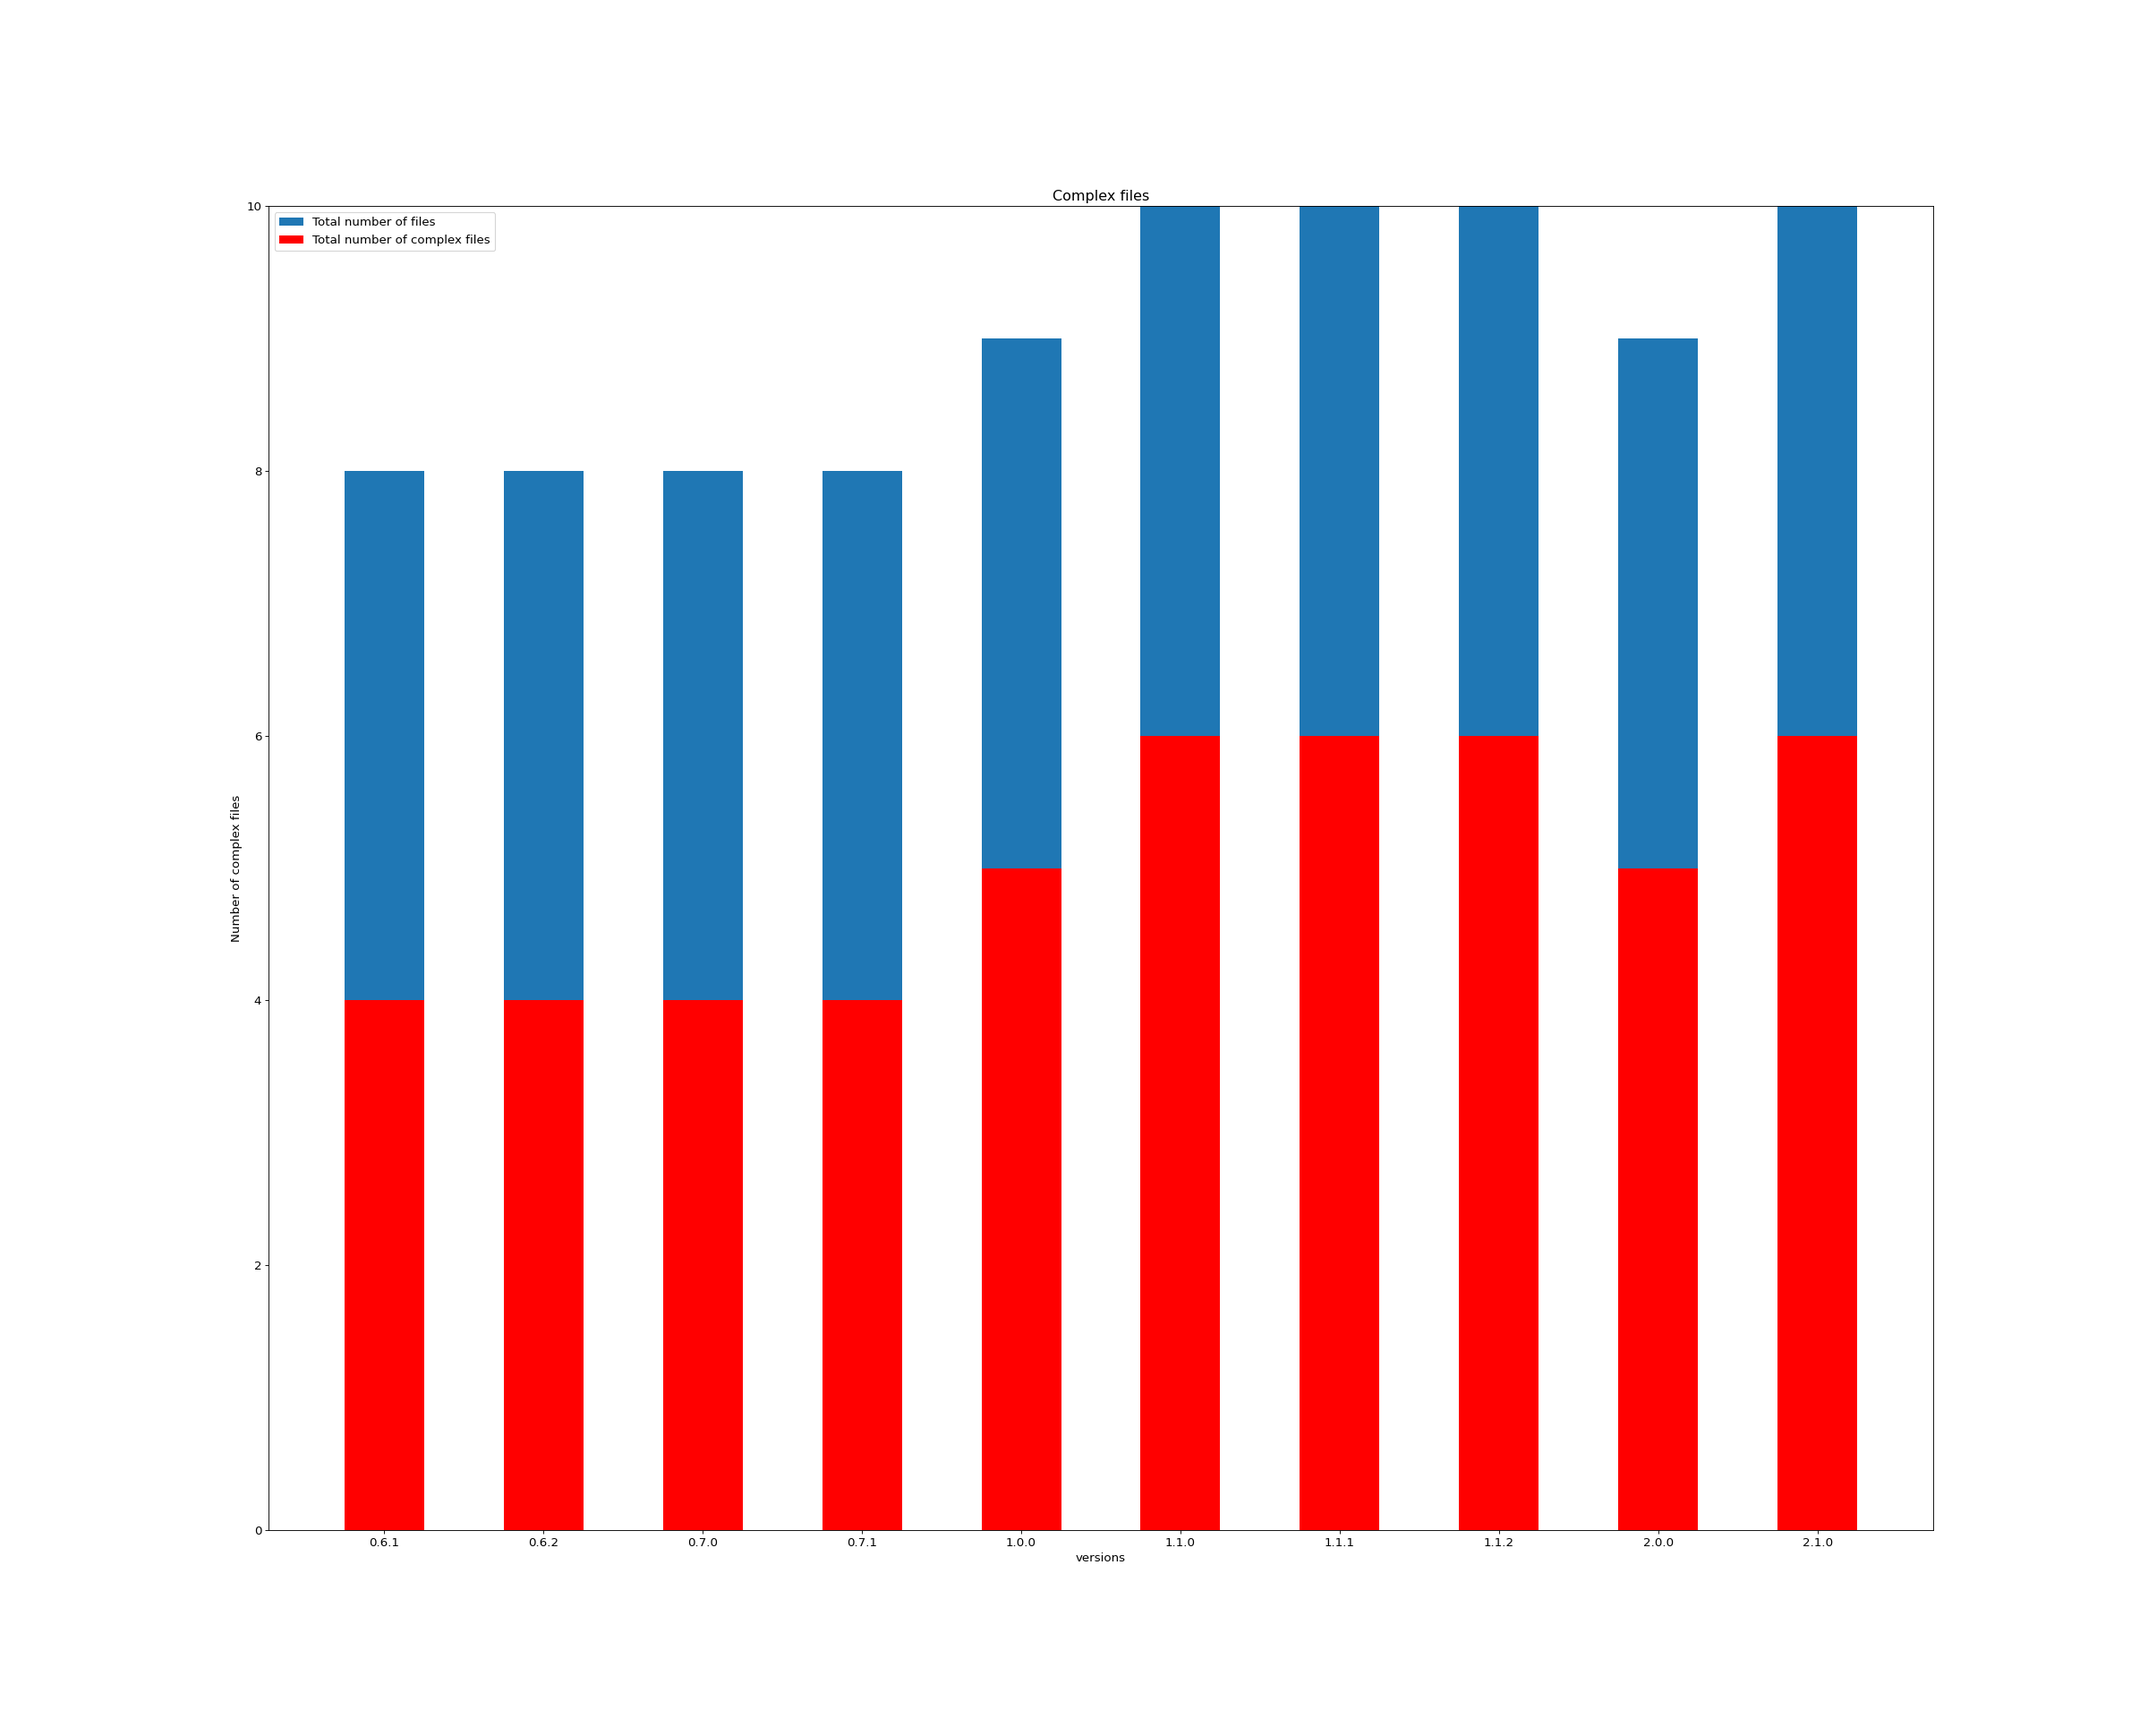
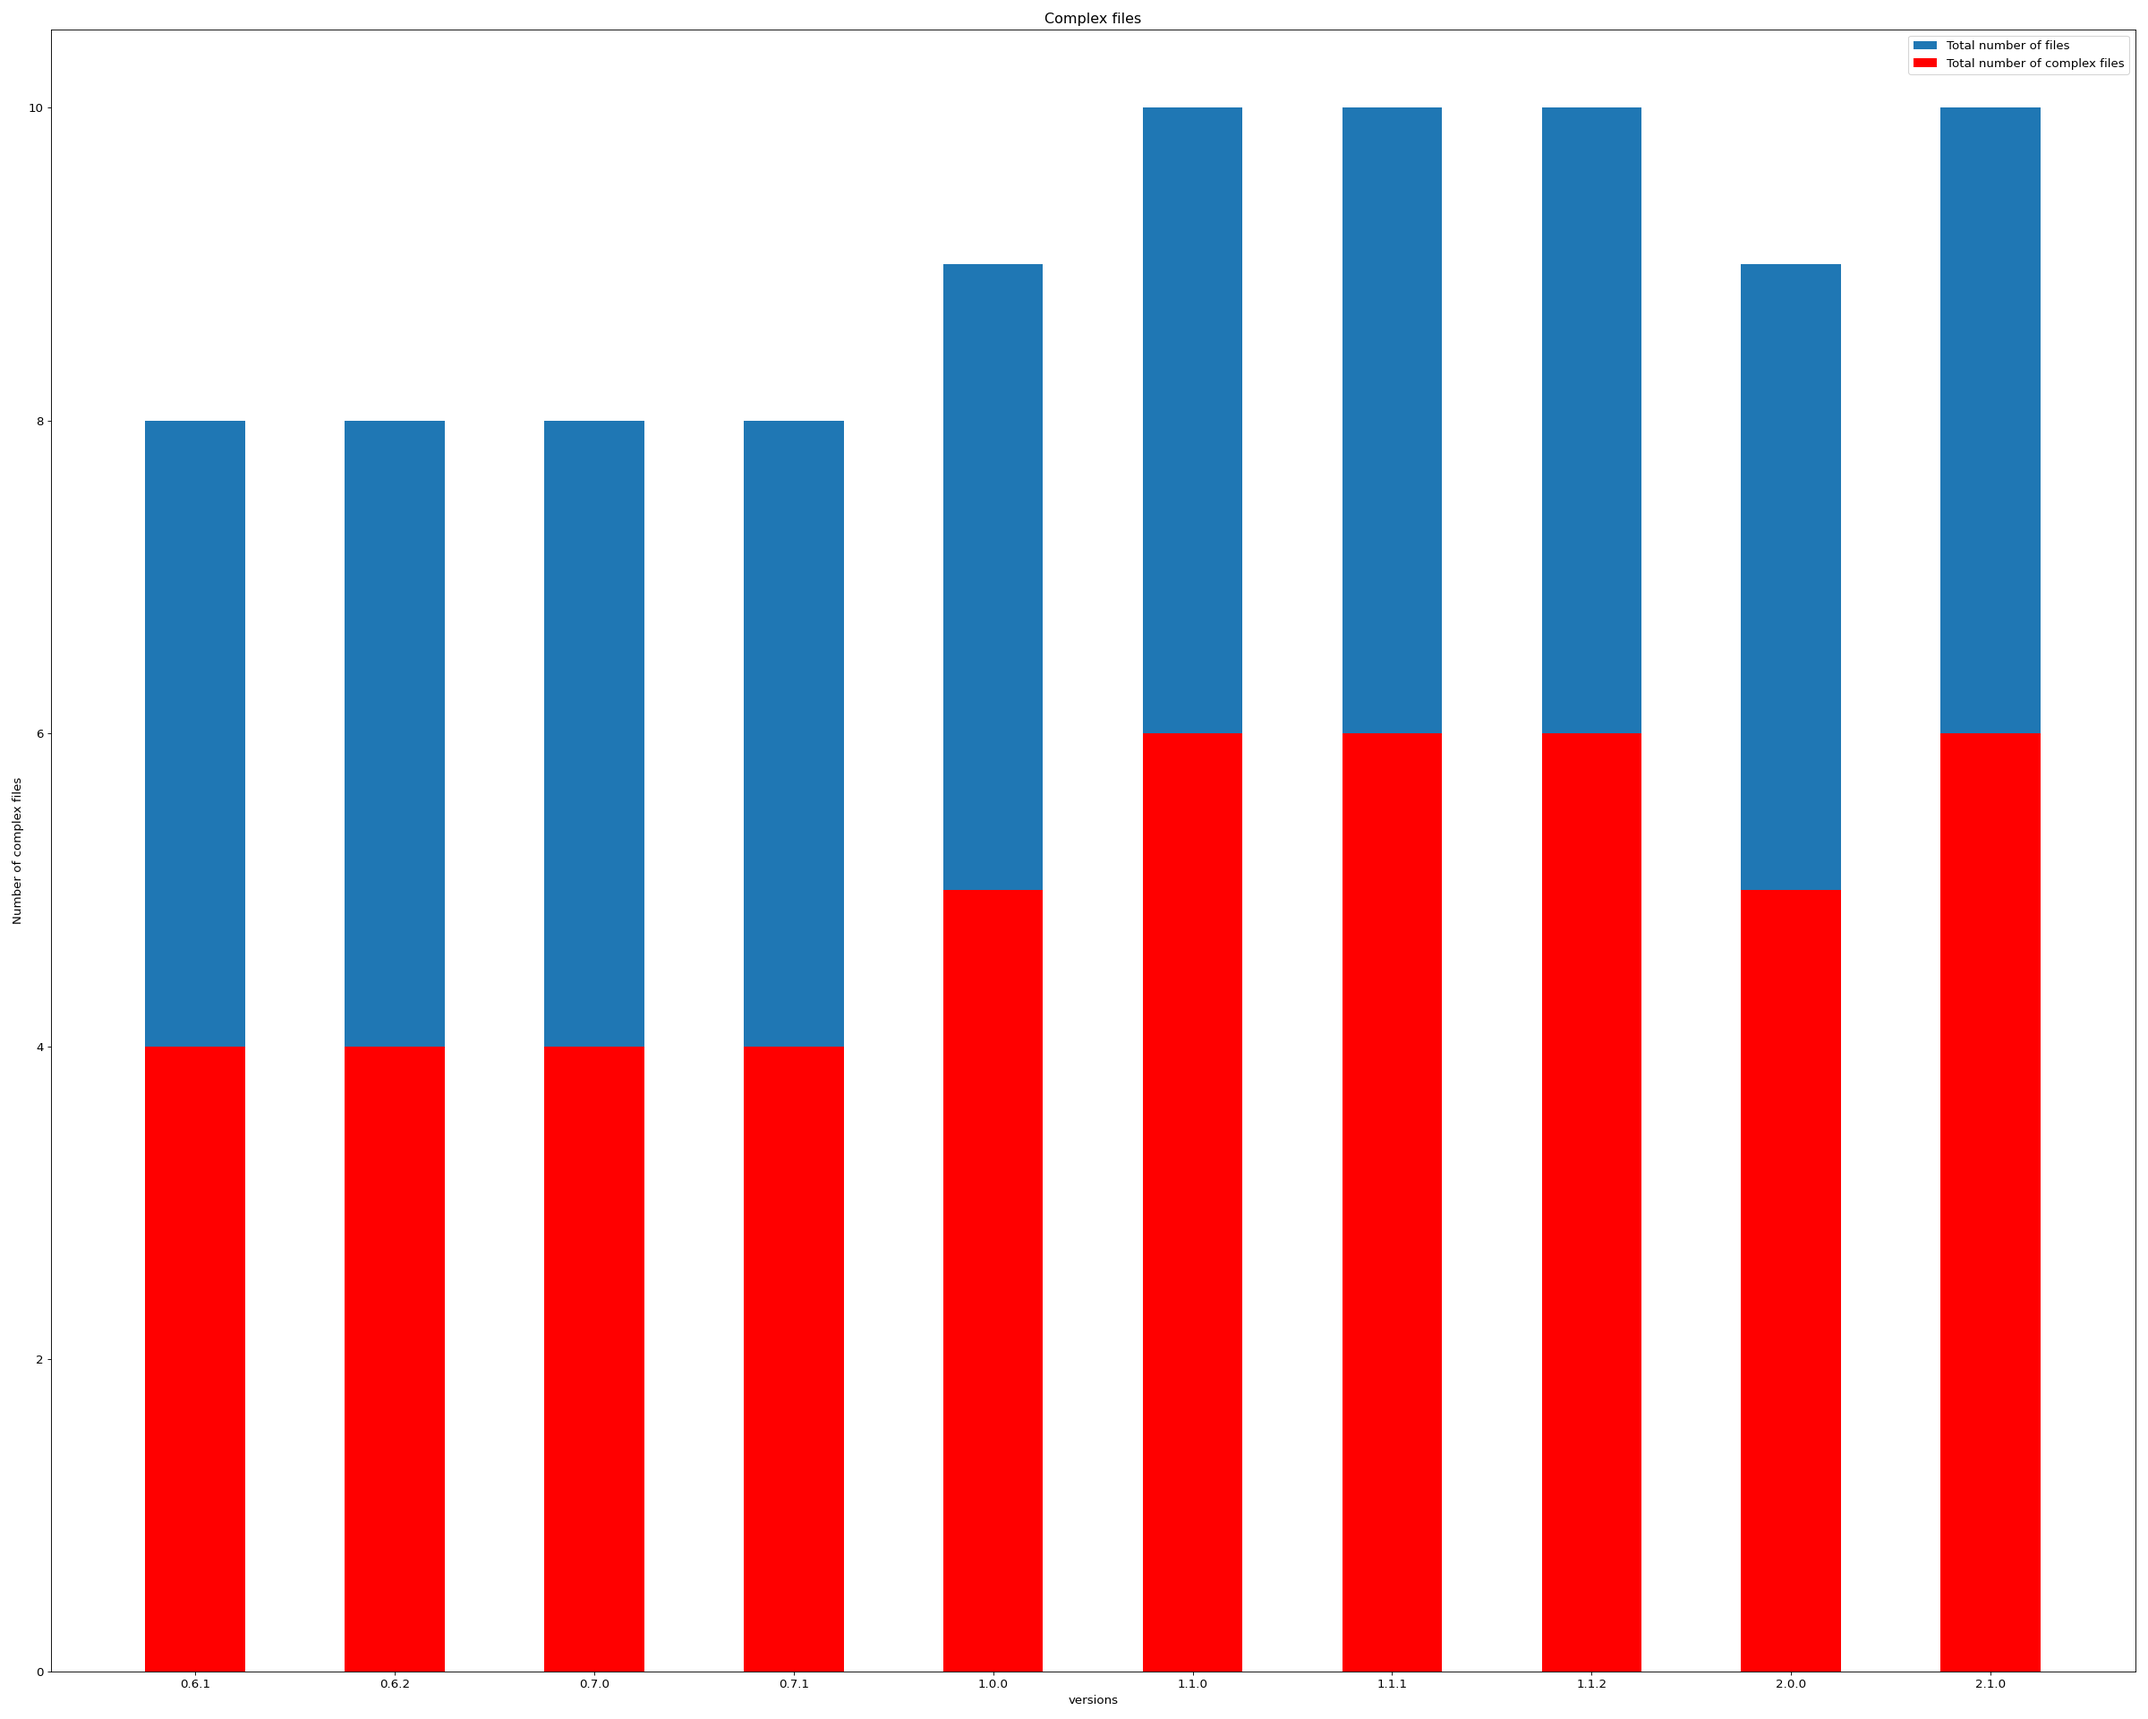
fineshed graph for file mod analysis

diff --git a/static-analysis.py b/static-analysis.py
@@ -5,6 +5,14 @@ import numpy as np
 import matplotlib.pyplot as plt
 from matplotlib.pyplot import figure
 
+def get_ticks(Y_axis):
+    vec=[y for ys in Y_axis for y in ys]
+    ymin= min(vec)
+    ymax= max(vec)
+    step = round((ymax-ymin)/20.0,2)
+    ticks=np.arange(ymin,ymax,step=step)
+    
+    return np.append(ticks,ymax)
 
 #avg_cyc[, avg_cogn, max_cyc, max_cogn,min_cyc, min_cogn
 def print_bar_plot(x,vec,img_path,title): 
@@ -22,13 +30,13 @@ def print_bar_plot(x,vec,img_path,title):
         for value in y:
             min_y=min(min_y,value)
             max_y=max(max_y,value)
-    min_y = min_y-0.05*min_y
     plt.rcParams.update({'font.size': 12})
     figure(figsize=(25,20), dpi=80)
     for i in range(0,len(x)):
         plt.bar(V_axis[i], Y_axis[i], 0.2, label = x[i])
     plt.xticks(rotation='vertical')
-    plt.ylim(min_y,max_y)
+    plt.yticks(get_ticks(Y_axis))
+    plt.ylim(min_y)
     plt.xlabel("projects")
     plt.ylabel("Complexity")
     plt.title(title)
@@ -87,8 +95,8 @@ def static_analysis(path_to_csvs,image_name):
         sifis_q.append( [avg_cyc[i][1], avg_cogn[i][1], max_cyc[i][1], max_cogn[i][1],min_cyc[i][1], min_cogn[i][1]])
         crap.append( [avg_cyc[i][2], avg_cogn[i][2], max_cyc[i][2], max_cogn[i][2],min_cyc[i][2], min_cogn[i][2]])
         skunk.append( [avg_cyc[i][3], avg_cogn[i][3], max_cyc[i][3], max_cogn[i][3],min_cyc[i][3], min_cogn[i][3]])
-    print_bar_plot(x,sifis,'./img/Static/'+image_name+'_sifis.png',"Sifis")
-    print_bar_plot(x,sifis_q,'./img/Static/'+image_name+'_sifis_quantized.png',"Sifis Quantized")
+    print_bar_plot(x,sifis,'./img/Static/'+image_name+'_wcc_plain.png',"WCC Plain")
+    print_bar_plot(x,sifis_q,'./img/Static/'+image_name+'_wcc_quantized.png',"WCC Quantized")
     print_bar_plot(x,crap,'./img/Static/'+image_name+'_crap.png',"CRAP")
     print_bar_plot(x,skunk,'./img/Static/'+image_name+'_skunk.png',"SkunkScore")
     return

diff --git a/time-analysis.py b/time-analysis.py
@@ -19,11 +19,11 @@ def print_plot(versions,vec,img_path):
     figure.set_size_inches(24, 20)
     axis[0, 0].plot(versions, sifis)
     axis[0, 0].scatter(versions, sifis,color="r")
-    axis[0, 0].set_title("Sifis Plain")
+    axis[0, 0].set_title("WCC Plain")
     axis[0, 0].set_xlabel('versions')
     axis[0, 1].plot(versions, sifis_q)
     axis[0, 1].scatter(versions, sifis_q,color="r")
-    axis[0, 1].set_title("Sifis Quantized")
+    axis[0, 1].set_title("WCC Quantized")
     axis[0, 1].set_xlabel('versions')
     axis[1, 0].plot(versions, crap)
     axis[1, 0].scatter(versions, crap,color="r")
@@ -39,19 +39,10 @@ def print_plot(versions,vec,img_path):
 
 def plot_complex(versions,complex,total,img_path):
     plt.rcParams.update({'font.size': 12})
+    plt.rcParams["figure.autolayout"] = True
     figure(figsize=(30,24), dpi=80)
-    min_y=float("inf")
-    max_y=0
-    for y in total:
-            min_y=min(min_y,y)
-            max_y=max(max_y,y)
     plt.bar(versions, total, 0.5, label="Total number of files")
     plt.bar(versions, complex, 0.5,color="r", label="Total number of complex files")
-    if(min_y-5<0):
-        min_y=0
-    else:
-        min_y=min_y-5
-    plt.ylim(min_y,max_y)
     plt.xlabel("versions")
     plt.ylabel("Number of complex files")
     plt.title("Complex files")

diff --git a/README.md b/README.md
@@ -1,19 +1,30 @@
 # wcc-analysis
 
-This repository is used to store all the csv file avout static and time analysis for [WCC](https://github.com/giovannitangredi/wcc).
+This repository is used to store all the csv file about static and time analysis for [WCC](https://github.com/giovannitangredi/wcc).
 For time analysis a sequence of versions of various repo are considered, and the resulting graphs are stored in the img folder in the .png format.
-For now the plot create are the avarage , minimum and maximum values  for the four metrics in wcc: Sifis plain , Sifis quantized, CRAP and SkunkScore.
+For now the plot create are the average , minimum and maximum values  for the four metrics in wcc: WCC plain , WCC quantized, CRAP and SkunkScore.
 
 All the graphs will be printed in the img directory:
-- All graphs abount static analysis will be printed in img/Static
-- All graphs abount time analysis will be printed in img/Time
+- All graphs about static analysis will be printed in img/Static
+- All graphs about time analysis will be printed in img/Time
 
 In Static  you will found a graph for each metric, in each graph a bar diagram is showed with all the minimum , maximum and average values for that metric for each project analyzed
-In Time there will be graphs for each project analyzed , each project will have a multiple images: one that show the number of complex files and total files present in the project in each version and then two images that have 4 graphs in it the rapresent the variation of minimum and avarage between different version of the project for all four differet metrics analyzed.
+In Time there will be graphs for each project analyzed , each project will have a multiple images: one that show the number of complex files and total files present in the project in each version and then two images that have 4 graphs in it the represent the variation of minimum and average between different version of the project for all four different metrics analyzed.
+
+## Metrics
+- WCC Plain: Give each line of the code file a a value equal the complexity of the file , the sum the complexity of all the covered lines and divide the sum by the PLOC (Formula: sum(cov_lines*comp)/PLOC)
+- WCC Quantized: For each covered line of the file see if the space is part of has a complexity value greater than 15, if yes the give it a weight of 2 otherwise 1, uncovered line have a weight of 0. The sum all the weights and divide the sum by PLOC of the file.
+- CRAP:Created by Alberto Savoia and Bob Evans([link](https://testing.googleblog.com/2011/02/this-code-is-crap.html#:~:text=CRAP%20is%20short%20for%20Change,partner%20in%20crime%20Bob%20Evans.)). Take the total complexity of the file and the coverage in percentage then apply the following formula formula: ``(comp^2)*(1-coverage) +comp``
+- SKUNKSCORE: Created by Ernesto Tagwerker ([link](https://www.fastruby.io/blog/code-quality/intruducing-skunk-stink-score-calculator.html)). Take the total complexity of the file , the coverage in percentage, and a COMPLEXITY_FACTOR in this case equal to 25 then apply the following formula formula: ``(comp/COMPLEXITY_FACTOR)*(100-coverage*100)``
 
 ## Usage
 
 Run the project with the following command:
+For time analysis
 ```
 python3 time-analysis.py
+```
+For static analysis
+```
+python3 static-analysis.py
 ```
